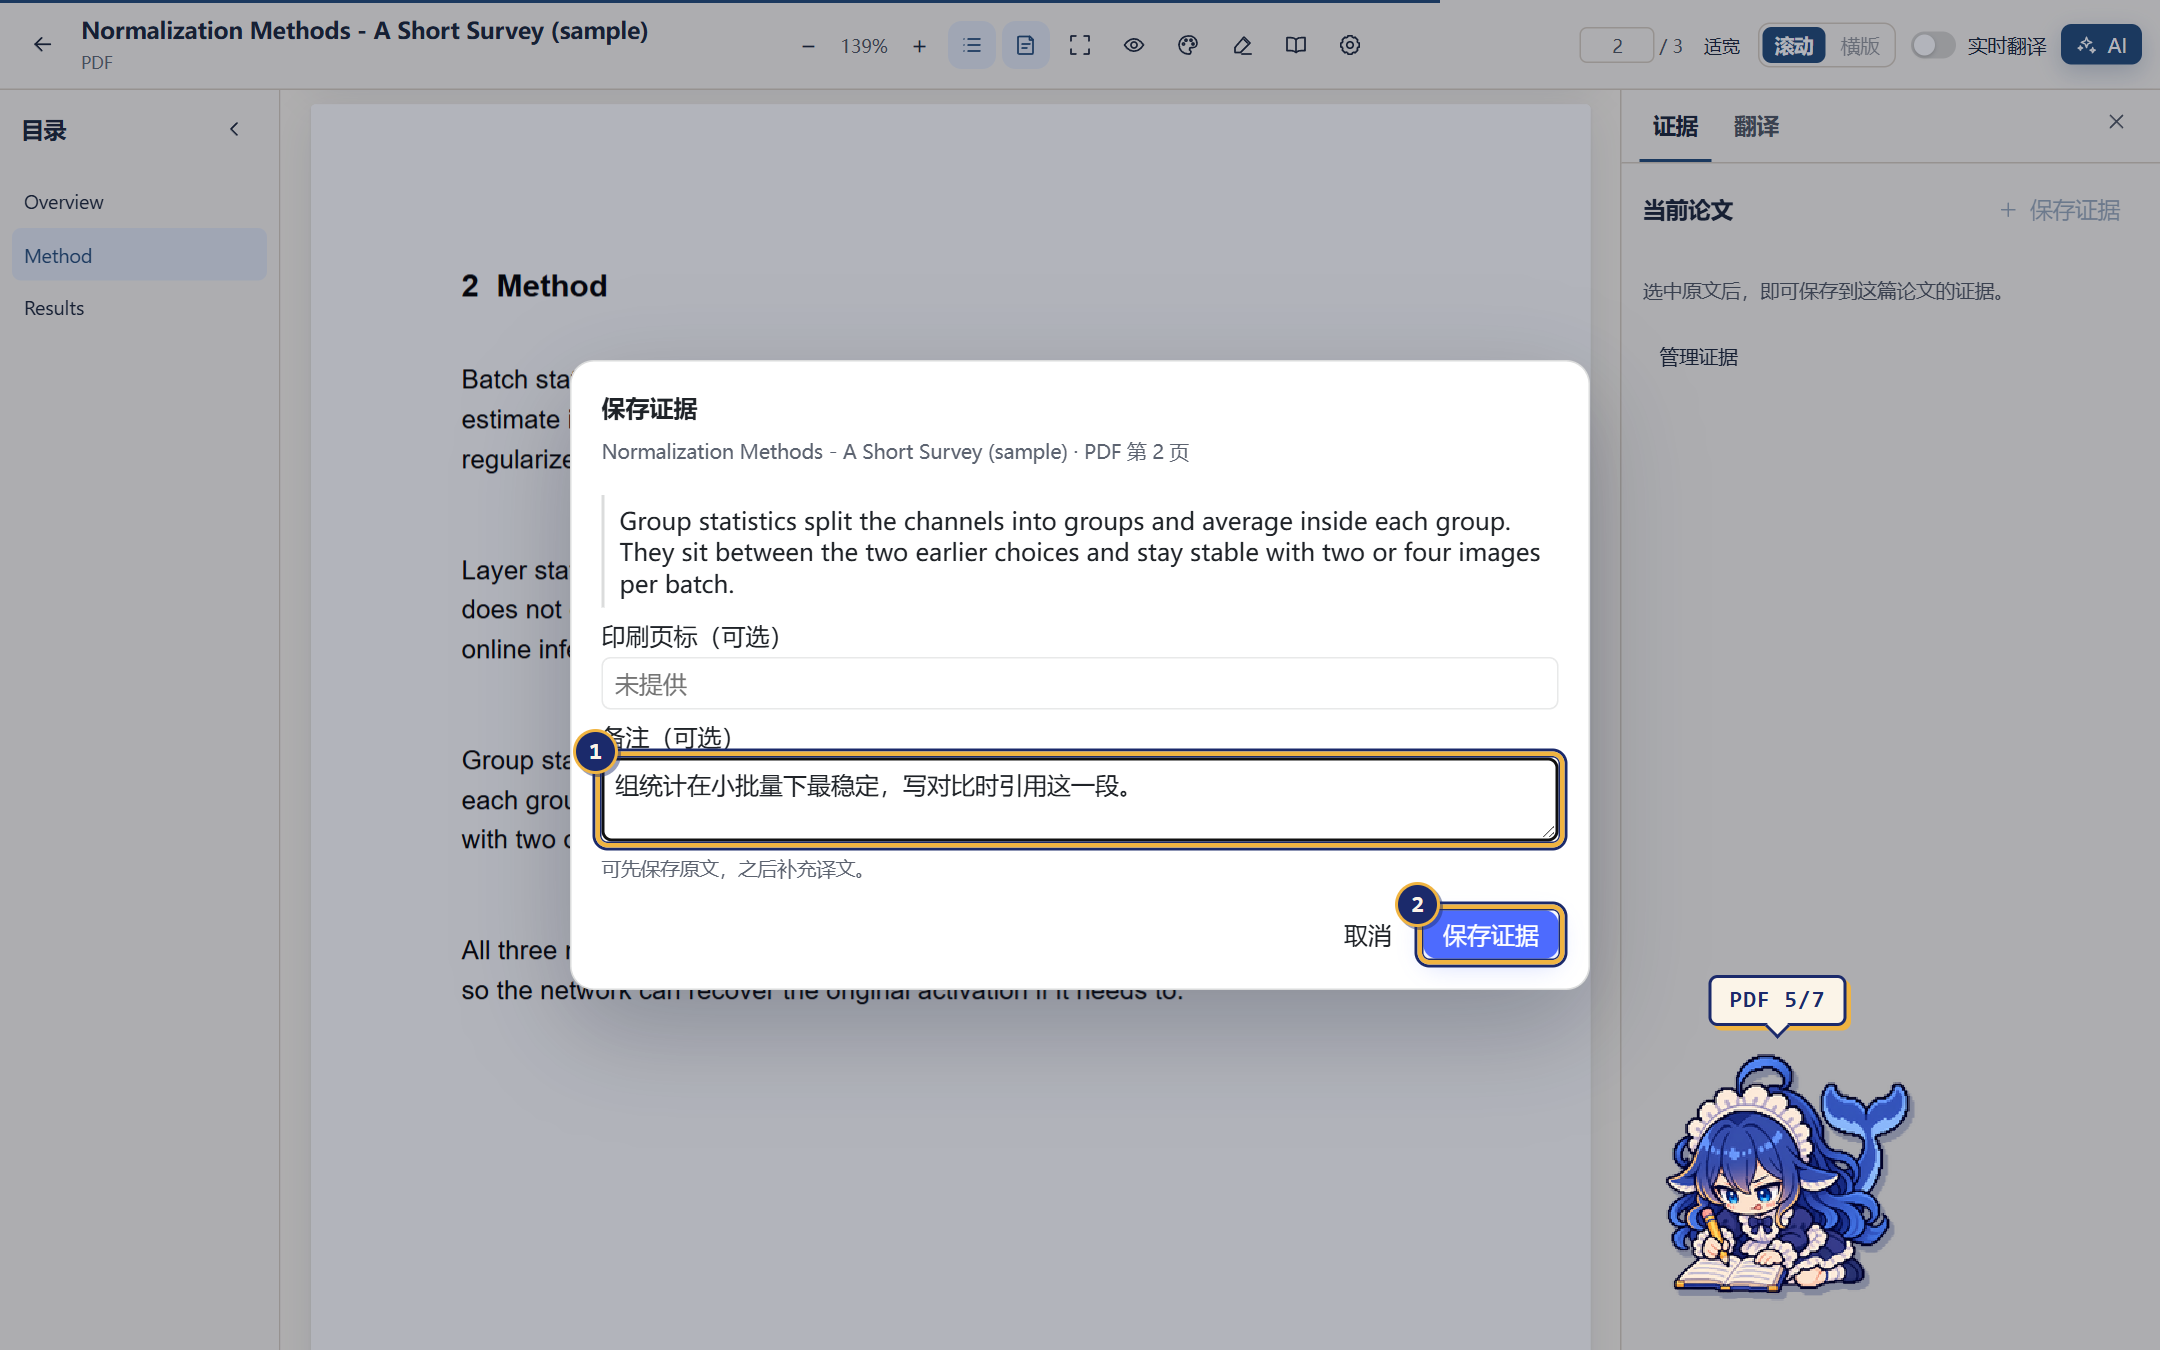
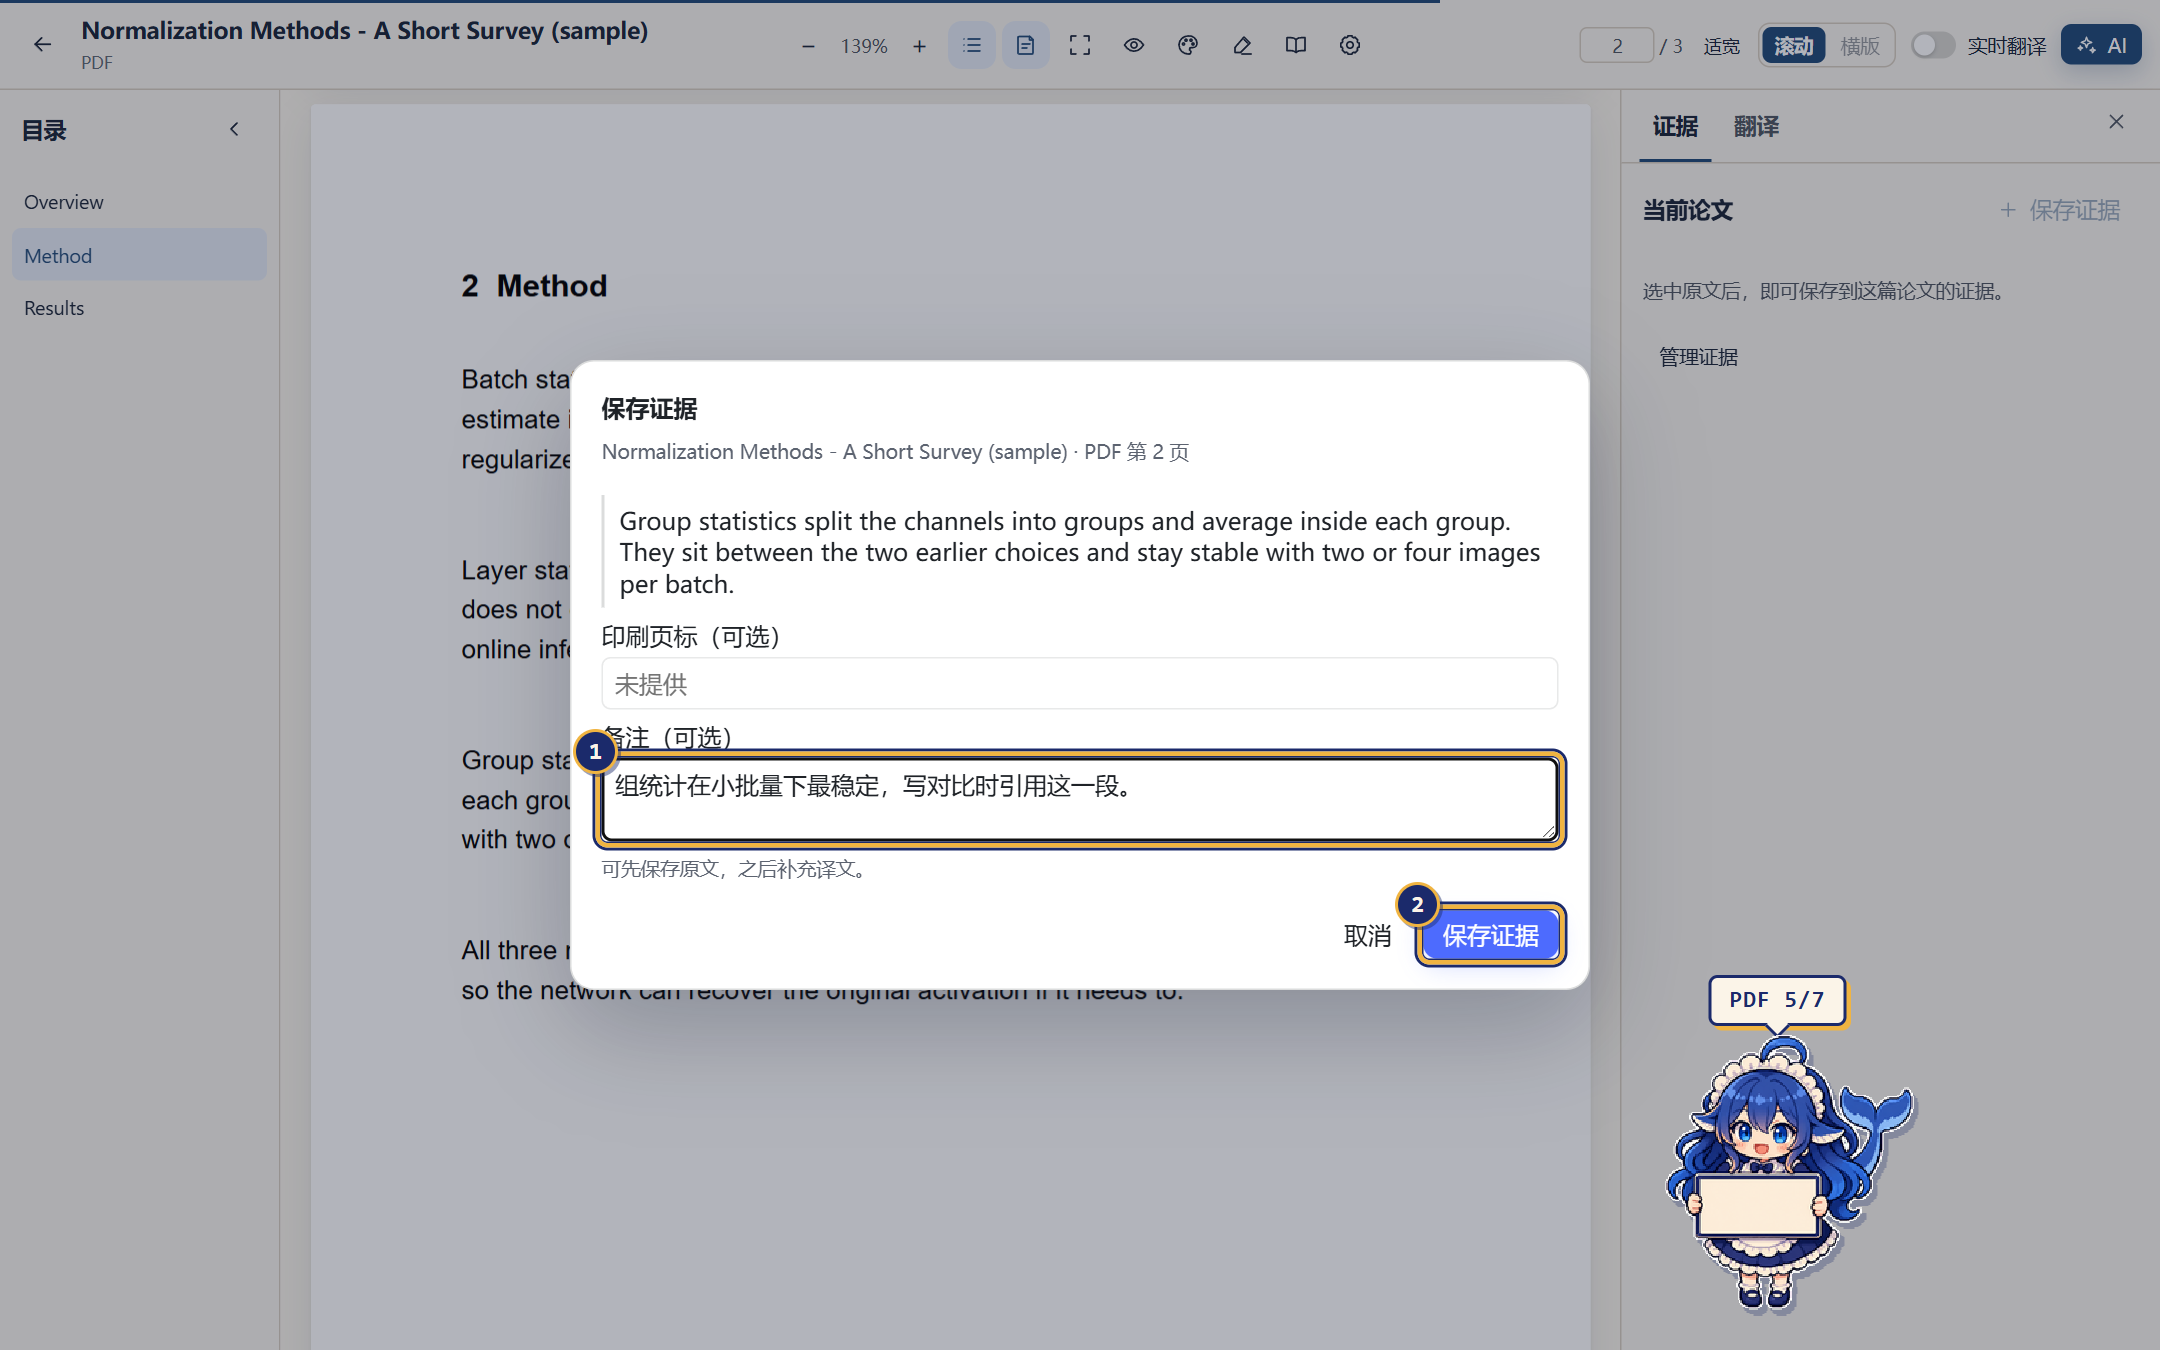
Give the guide four new whale girl poses
The step-by-step screenshots now use poses made for guiding: holding
a sign, pointing left, pointing right and a thumbs-up. The poses were
produced with an image generator from the existing stickers.

Changed region(s): [[0.7444, 0.7467, 0.8995, 0.9956]]

diff --git a/README.de.md b/README.de.md
@@ -70,7 +70,7 @@ Für Desktop die integrierte Pluginverwaltung verwenden. Eine Installation im Pr
 
 Das Walmädchen führt durch die Anleitung. Die Nummern in jedem Bildschirmfoto gehören zu den Schritten darunter, und das Schild zeigt die Position in der Abfolge. Die Bildschirmfotos zeigen Beispieldokumente im Design Marine-Pixel. Die Oberfläche ist chinesisch.
 
-![Die sechs Posen der Begleiterin: Start, Suchen, Lesen, Sichern, Fertig, Pause](docs/images/guide/guide-poses.png)
+![Die vier Posen der Begleiterin: Schild halten, nach links zeigen, nach rechts zeigen, Daumen hoch](docs/images/guide/guide-poses.png)
 
 ### Bibliothek: importieren und ordnen
 

diff --git a/README.md b/README.md
@@ -70,7 +70,7 @@ For Desktop, use its plugin manager. A `web` profile installation does not insta
 
 The whale girl is your guide. The numbers in each screenshot match the steps below it, and her sign shows where you are in the sequence. The screenshots use sample documents and the Navy Pixel theme. The interface is in Chinese.
 
-![The guide’s six poses: start, find, read, save, done, rest](docs/images/guide/guide-poses.png)
+![The guide’s four poses: holding a sign, pointing left, pointing right, thumbs up](docs/images/guide/guide-poses.png)
 
 ### Library: import and organize
 

diff --git a/README.zh-CN.md b/README.zh-CN.md
@@ -70,7 +70,7 @@ dsh plugin --profile web add "github:Popipot/DSH-Reading-Plugin#main"
 
 鲸鱼娘是这里的引导员。每张截图里的编号对应图下的步骤，右下角的牌子标出这是第几步。截图使用示例文档和「藏青像素」主题。
 
-![引导员的六个动作：开始、查找、阅读、记录、完成、休息](docs/images/guide/guide-poses.png)
+![引导员的四个动作：举牌、指左、指右、点赞](docs/images/guide/guide-poses.png)
 
 ### 书架：导入和整理
 
